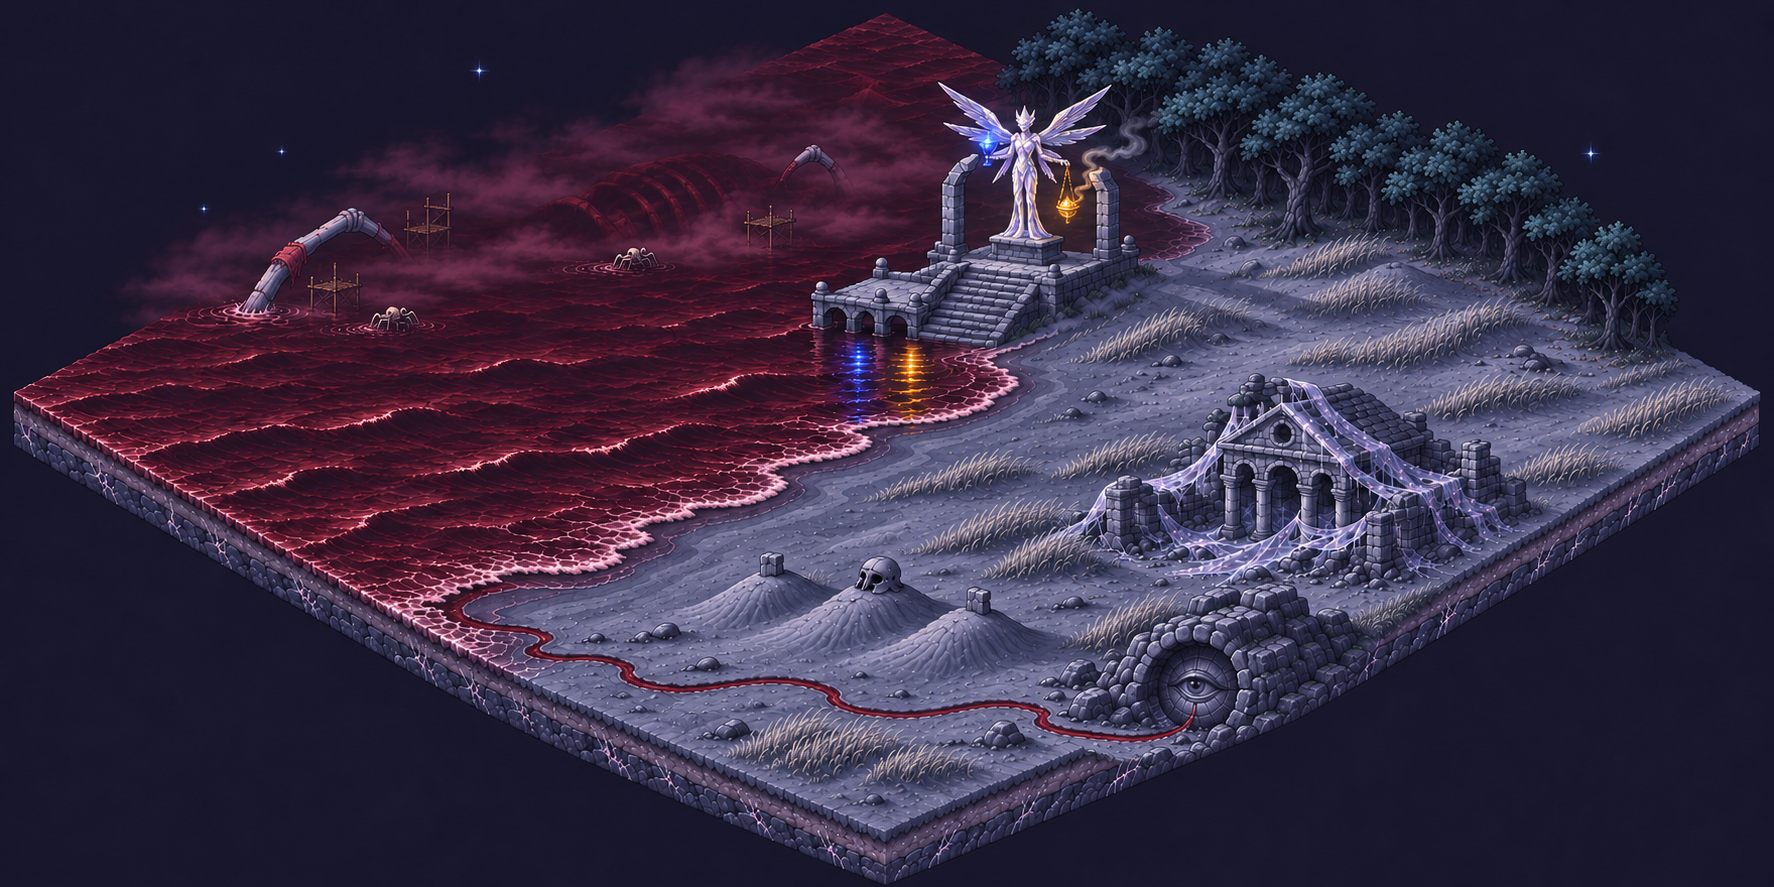
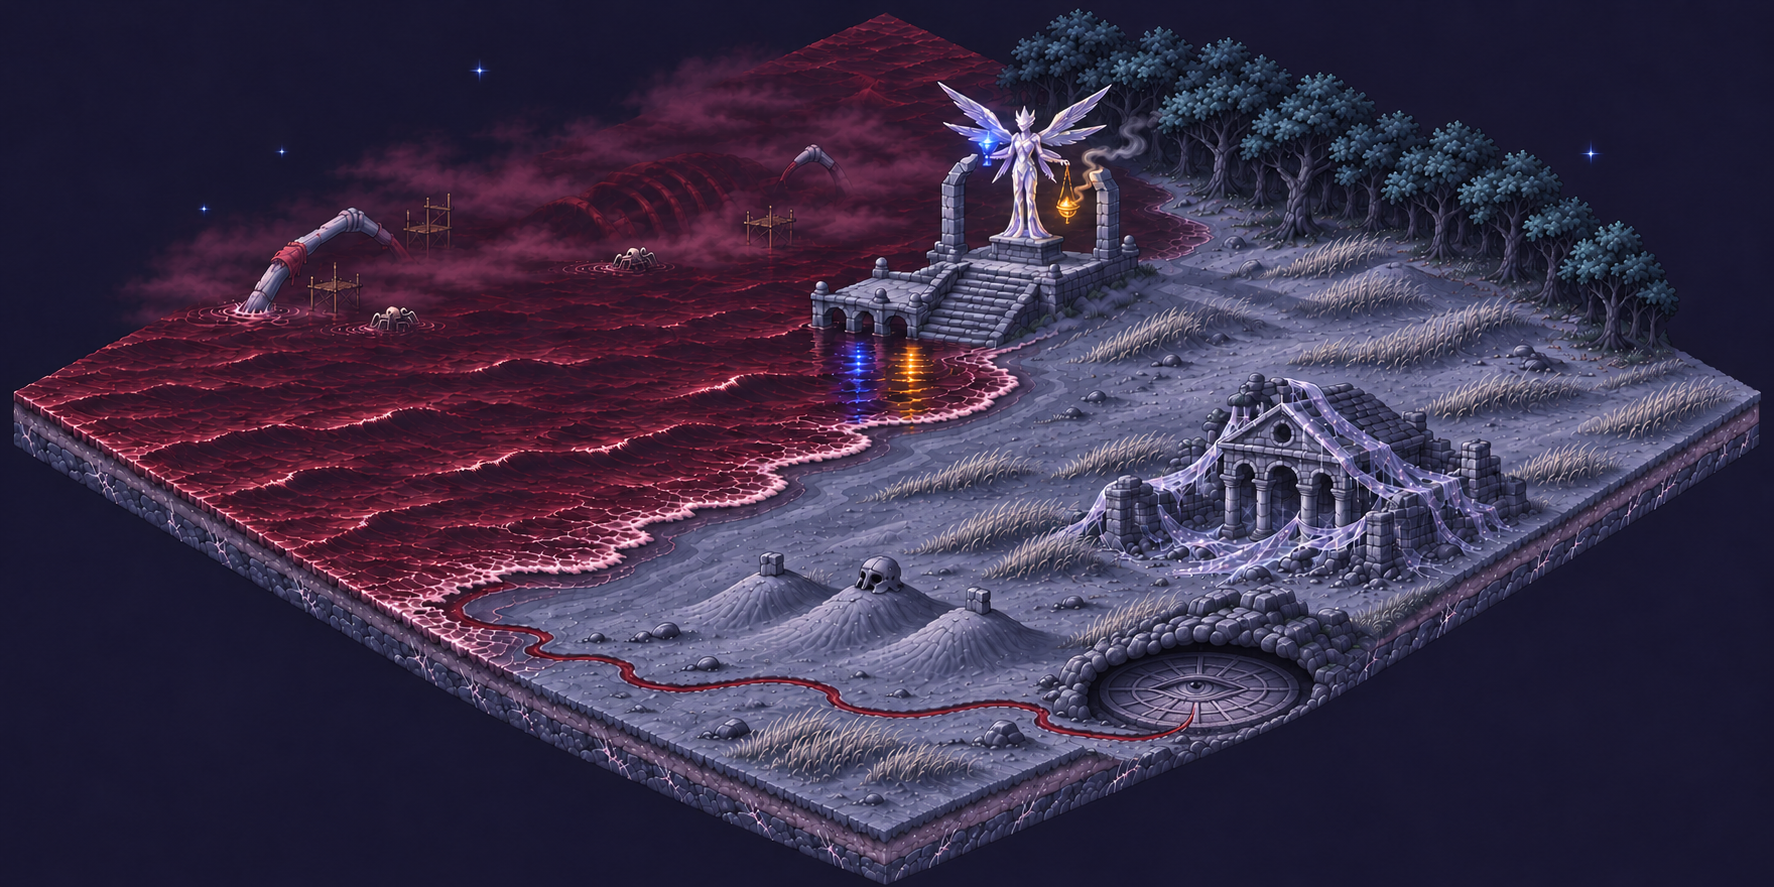
Greystone v6: the eye disc lies flat on the cave floor
Claude-Session: https://claude.ai/code/session_01Ww1GRCYWdxwk3Jd5UEEGip

diff --git a/ashfall-pixel/map/scenes/greystone-beach.js b/ashfall-pixel/map/scenes/greystone-beach.js
@@ -1,2 +1,2 @@
 window.SCENES = window.SCENES || {};
-window.SCENES["greystone-beach"] = {"w": 1774, "h": 887, "points": {"labels": {"arrival_disc": [1205, 585], "trio_graves": [870, 550], "silk_temple": [1300, 410], "temple_terrace": [1000, 250], "angel_vex": [1030, 75], "titan_island": [450, 170], "unreachable_forest": [1300, 25], "demon_aldren": [1030, 300]}, "water": [[1180, 712], [1050, 708], [900, 692], [720, 672], [580, 640], [480, 600]], "lamps": [[958, 140], [1062, 192]], "fires": [], "chimneys": [], "windows": [], "fountain": []}, "sprites": [{"id": "demon_aldren", "src": "assets/demon_aldren_px.png", "x": 1030, "y": 440, "h": 125, "shadow": true, "pixel": true}]};
+window.SCENES["greystone-beach"] = {"w": 1774, "h": 887, "points": {"labels": {"arrival_disc": [1185, 630], "trio_graves": [870, 550], "silk_temple": [1300, 410], "temple_terrace": [1000, 250], "angel_vex": [1030, 75], "titan_island": [450, 170], "unreachable_forest": [1300, 25], "demon_aldren": [1030, 300]}, "water": [[1180, 712], [1050, 708], [900, 692], [720, 672], [580, 640], [480, 600]], "lamps": [[958, 140], [1062, 192]], "fires": [], "chimneys": [], "windows": [], "fountain": []}, "sprites": [{"id": "demon_aldren", "src": "assets/demon_aldren_px.png", "x": 1030, "y": 440, "h": 125, "shadow": true, "pixel": true}]};

diff --git a/ashfall-pixel/map/story.js b/ashfall-pixel/map/story.js
@@ -964,7 +964,7 @@ window.ASHFALL_STORY = {
    "events": [
     5
    ],
-   "desc": "A small round sea cave opening onto the surf lit by \"pale light that seemed to emanate from nowhere\". On the floor, a stone disc \"wide as a threshing floor\", carved in rings like cartwheel spokes, \"Men bowing. Waves. Things with too many legs.\" At its centre \"an eye, carved wide open\". A pulsing trickle of scarlet water. (Ch VI)"
+   "desc": "A low rock hollow at the inland end of the beach. On its floor lies a stone disc \"wide as a threshing floor… black depths that dropped away on every side\", carved in rings divided like cartwheel spokes, \"Men bowing. Waves. Things with too many legs.\" At its centre \"an eye, carved wide open\". Lit by \"pale light that seemed to emanate from nowhere\"; a pulsing trickle of scarlet water runs from it to the sea. (Ch VI)"
   },
   {
    "id": "trio_graves",
